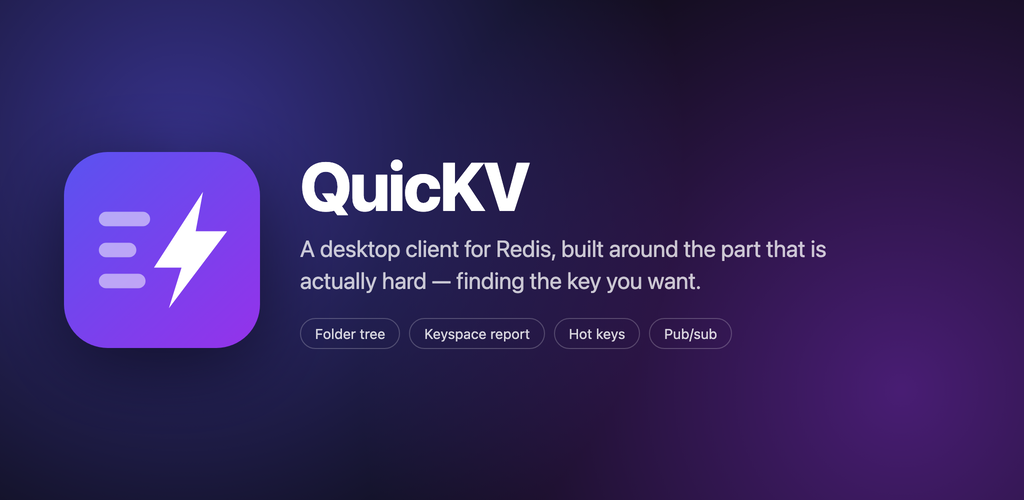
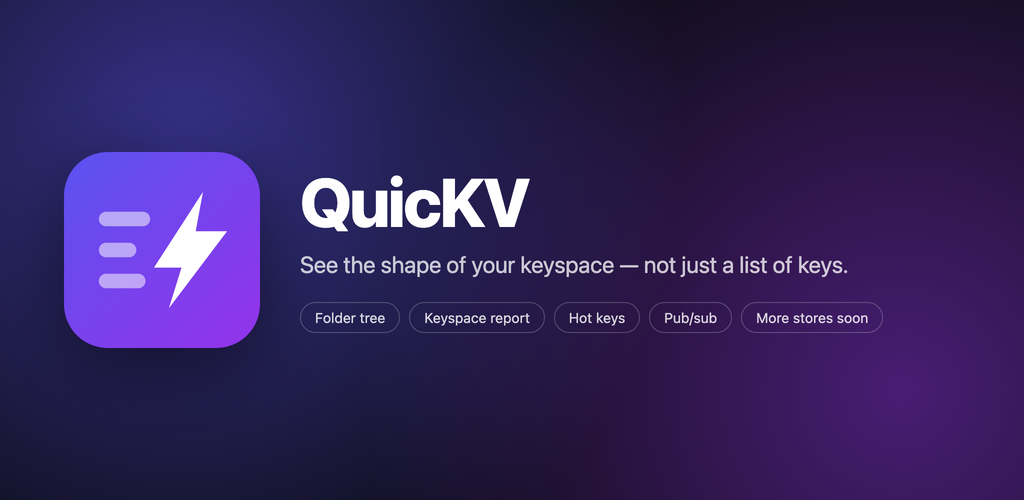
Behemehal Apps band, and QuicKV reads as unreleased
The home page had a Behemehal Games band and nothing for the things that are
not games. AppsSection mirrors it — tiles leading, copy trailing, violet where
games is red — so the two alternate down the page instead of stacking into one
column. It renders `TOOLS`, so a new app needs nothing here.

QuicKV is not shipping its source, so the GitHub link is gone. With no link and
no store URL the page said nothing at all about availability; a desktop app now
gets its own "Coming soon" rather than Google Play's, and the info table says
so in words.

New tagline. The old one explained the app; this one says what it is for:
"See the shape of your keyspace — not just a list of keys." The rest — Redis,
Valkey, DragonflyDB, and more stores coming — follows it, and appears again as
a tag, a stat and a section of its own.

Changed region(s): [[0.2812, 0.3, 0.8438, 0.69]]

diff --git a/src/data/apps.ts b/src/data/apps.ts
@@ -258,11 +258,11 @@ export const APPS: AppEntry[] = [
     packageName: "com.quickv.desktop",
     name: "QuicKV",
     tagline:
-      "A desktop client for Redis, built around the part that is actually hard — finding the key you want.",
+      "See the shape of your keyspace — not just a list of keys. Redis, Valkey and DragonflyDB, with more stores on the way.",
     kind: "app",
     category: "Developer tools",
     developer: "Behemehal",
-    tags: ["Desktop", "Local-first", "No account"],
+    tags: ["Desktop", "Local-first", "No account", "More stores soon"],
 
     icon: "/img/apps/quickv/icon.webp",
     iconPng: "/img/apps/quickv/icon.png",
@@ -271,13 +271,7 @@ export const APPS: AppEntry[] = [
     orientation: "landscape",
 
     playUrl: null,
-    links: [
-      {
-        label: "Source on GitHub",
-        href: "https://github.com/ahmetcanaksu/QuicKV",
-        icon: "code",
-      },
-    ],
+    links: [],
 
     screenshots: [
       {
@@ -313,6 +307,7 @@ export const APPS: AppEntry[] = [
     ],
 
     about: [
+      "A keyspace is a shape, and most clients show you a list. QuicKV shows you the shape.",
       "Most Redis clients can tell you whether a pattern matches something. QuicKV is built for the question people actually arrive with, which is that they do not know what the patterns are.",
       "It walks the keyspace, groups it by the separator the keys already use, and shows you what is in there — how many keys under each prefix, how many bytes, and which types. Then it offers the prefixes worth keeping as saved searches.",
       "Everything is done with SCAN. KEYS appears nowhere in the app, because on a database large enough to want a browser for, KEYS blocks the server for as long as its reply takes to build.",
@@ -355,9 +350,17 @@ export const APPS: AppEntry[] = [
         items: [
           "No account, no telemetry, no cloud — it talks to the servers you tell it to and nothing else",
           "Passwords live in the OS keychain and are read once per launch, on connect",
-          "Connections and saved searches are readable JSON files you can commit or copy between machines",
+          "Connections and saved searches are readable JSON files you can copy between machines",
           "Redis, and by the same code Valkey and DragonflyDB",
           "Six themes, light and dark, warm and cool",
+        ],
+      },
+      {
+        heading: "More stores on the way",
+        items: [
+          "The backend is a trait, not a pile of Redis calls — every screen asks for a key, a value or a page, and none of them know what answered",
+          "Which means a new store is one module, not a rewrite of the app around it",
+          "Next up are the key-value stores people run beside Redis rather than instead of it",
         ],
       },
     ],
@@ -367,6 +370,7 @@ export const APPS: AppEntry[] = [
       { value: "SCAN", label: "Never blocks the server" },
       { value: "7", label: "Value types" },
       { icon: "vpn_key", label: "Keychain passwords" },
+      { value: "Soon", label: "More key-value stores" },
     ],
 
     contentRating: {
@@ -404,8 +408,9 @@ export const APPS: AppEntry[] = [
 
     info: [
       { label: "Version", value: "0.1.0" },
+      { label: "Availability", value: "In development — not yet released" },
       { label: "Requires", value: "macOS, Windows or Linux" },
-      { label: "Speaks", value: "Redis, Valkey, DragonflyDB" },
+      { label: "Speaks", value: "Redis, Valkey, DragonflyDB — more on the way" },
       { label: "Category", value: "Developer tools" },
       { label: "Offered by", value: "Behemehal" },
       { label: "Built with", value: "Tauri 2, Rust, React" },
@@ -423,3 +428,6 @@ export const getApp = (slug: string): AppEntry | undefined =>
   APPS.find((app) => app.slug === slug);
 
 export const GAMES = APPS.filter((app) => app.kind === "game");
+
+/** Everything that is not a game — the home page's "Behemehal Apps" band. */
+export const TOOLS = APPS.filter((app) => app.kind === "app");

diff --git a/src/components/AppsSection.tsx b/src/components/AppsSection.tsx
@@ -1,0 +1,65 @@
+import AppTile from "./AppTile.tsx";
+import { TOOLS } from "../data/apps.ts";
+
+/**
+ * "Behemehal Apps" band on the home page — the counterpart to Behemehal Games,
+ * rendering every catalog entry with kind: "app". Nothing to touch here when a
+ * new one ships.
+ *
+ * Mirrored rather than shared with GamesSection on purpose: the two bands sit
+ * one above the other and read as a pair, which they only do while the copy and
+ * the tint can differ. The tile is the part worth sharing, and it is.
+ */
+export default function AppsSection() {
+  if (TOOLS.length === 0) return null;
+
+  return (
+    <section
+      id="apps"
+      class="relative w-full px-12 exsm:px-6 py-16 bg-black overflow-hidden"
+    >
+      <div
+        class="pointer-events-none absolute inset-0"
+        style={{
+          backgroundImage:
+            "radial-gradient(circle at 12% 18%, rgba(91,82,240,0.28), transparent 55%), radial-gradient(circle at 88% 85%, rgba(147,51,234,0.30), transparent 55%)",
+        }}
+      >
+      </div>
+
+      {/* The tiles lead here, opposite the games band, so the two alternate down
+          the page instead of stacking into one column of text. */}
+      <div class="relative z-10 max-w-[1200px] mx-auto grid grid-cols-2 exsm:grid-cols-1 gap-12 items-center">
+        <div class="grid gap-6 exsm:order-2">
+          {TOOLS.map((app) => <AppTile app={app} />)}
+        </div>
+
+        <div class="exsm:text-center exsm:order-1">
+          <div class="flex items-center gap-3 exsm:justify-center">
+            <span
+              class="material-symbols-outlined text-primary"
+              style={{ fontSize: "32px" }}
+            >
+              terminal
+            </span>
+            <h2 class="text-4xl exsm:text-3xl text-white">Behemehal Apps</h2>
+          </div>
+          <p class="text-white/80 text-lg mt-4 max-w-[520px] exsm:mx-auto">
+            Tools we built because we wanted them on our own machines. Local-first,
+            no accounts, and nothing phoning home — the same rule as the games, minus
+            the neon.
+          </p>
+          <a
+            href="/apps"
+            class="inline-flex items-center gap-2 mt-7 bg-primary hover:bg-primary/80 transition-colors text-white px-5 py-3 rounded-md"
+          >
+            All apps &amp; games
+            <span class="material-symbols-outlined" style={{ fontSize: "20px" }}>
+              arrow_forward
+            </span>
+          </a>
+        </div>
+      </div>
+    </section>
+  );
+}

diff --git a/src/components/HomeBody.tsx b/src/components/HomeBody.tsx
@@ -3,6 +3,7 @@ import { GitHubIcon } from "./ExtraIcons.tsx";
 import TechCard from "./TechCard.tsx";
 import Footer from "./Footer.tsx";
 import PcbTrace from "./PcbTrace.tsx";
+import AppsSection from "./AppsSection.tsx";
 import GamesSection from "./GamesSection.tsx";
 import { CodeWindow, TerminalWindow } from "./CodeWindow.tsx";
 
@@ -308,6 +309,9 @@ export default function HomeBody() {
           </div>
         </div>
       </section>
+
+      {/* Behemehal Apps */}
+      <AppsSection />
 
       {/* Behemehal Games */}
       <GamesSection />
